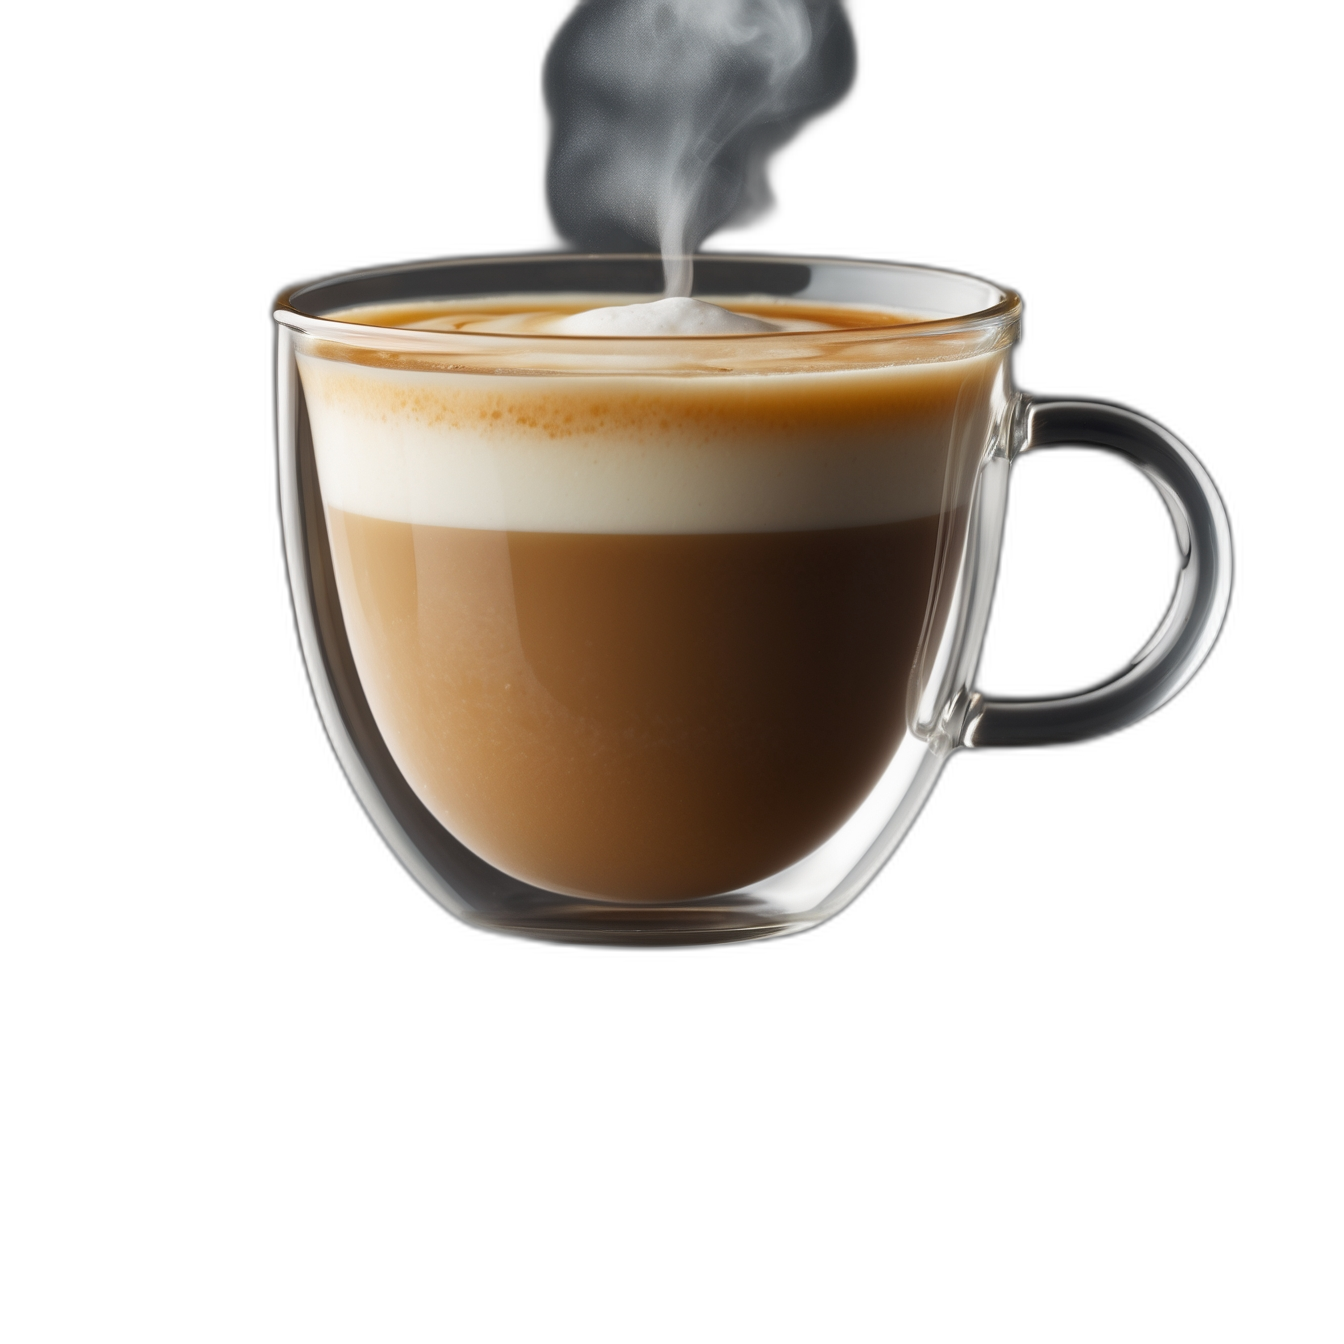
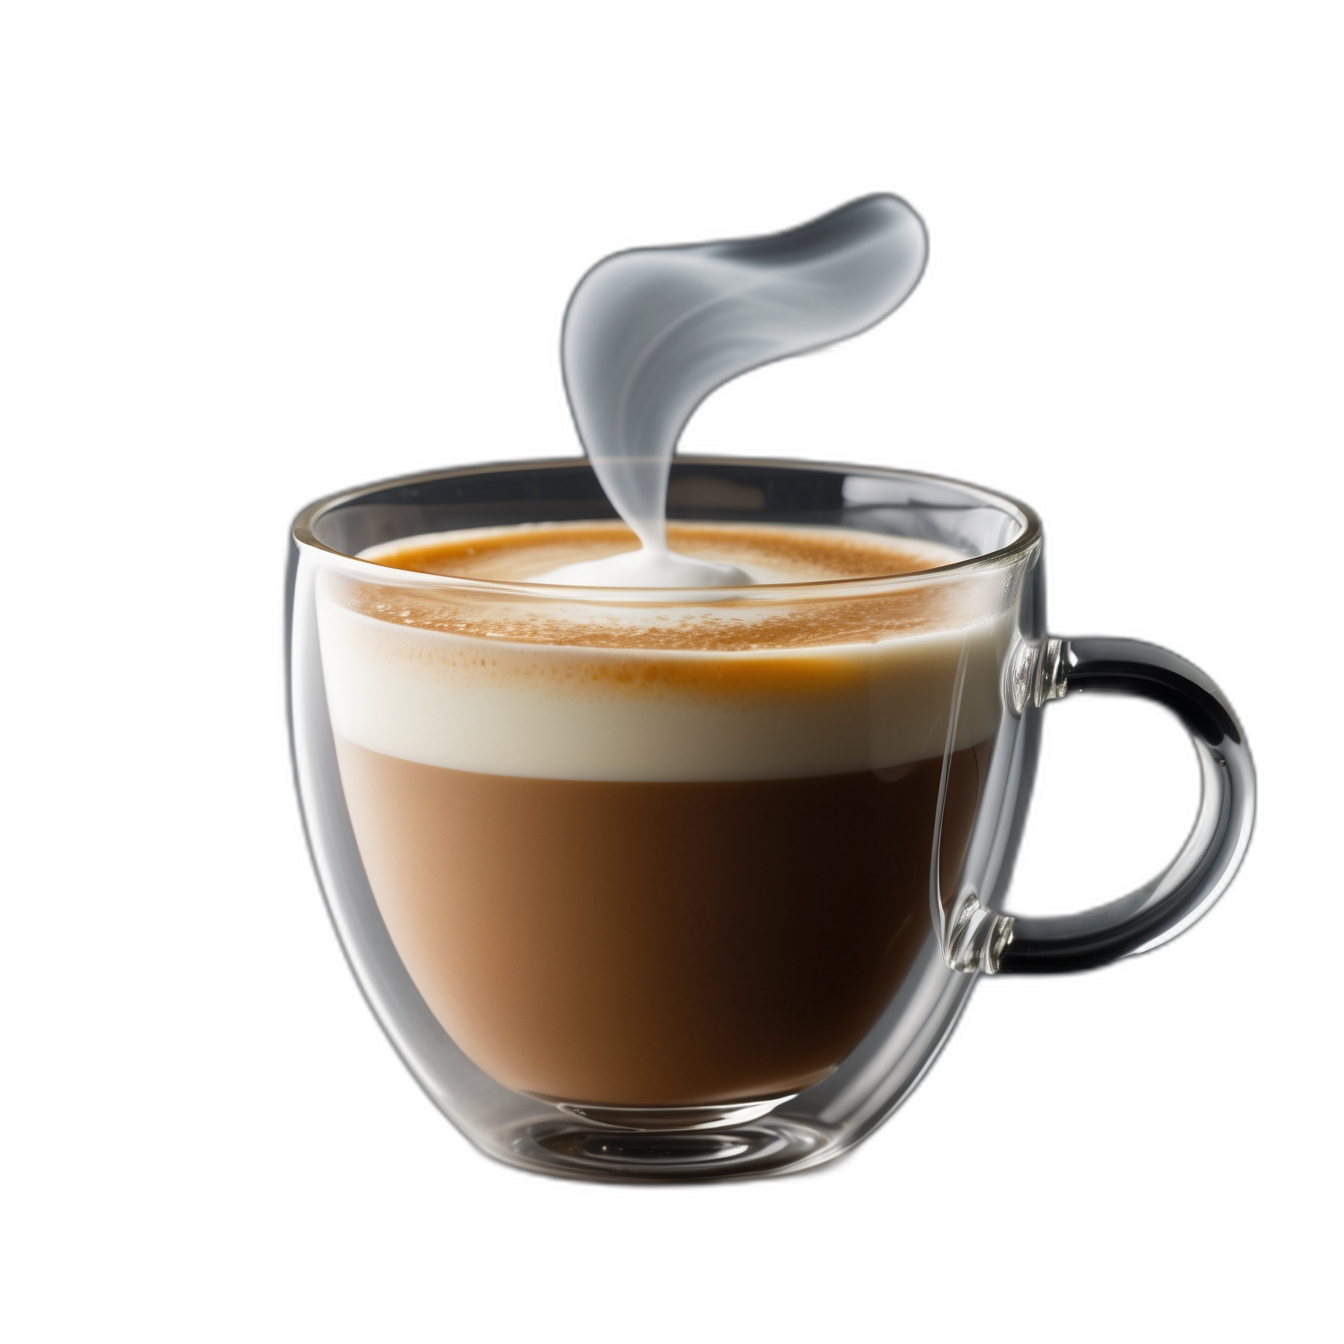
menu updates

diff --git a/index.html b/index.html
@@ -136,6 +136,9 @@ body{background:var(--bg);color:var(--cream);font-family:'Montserrat',sans-serif
 .card-img-bar{display:block;margin:12px auto 0;max-width:100%;height:auto;max-height:90px;pointer-events:none;filter:drop-shadow(0px 4px 14px rgba(237,133,48,0.15))}
 .coffee-img-wrap{width:100%;height:160px;display:flex;align-items:center;justify-content:center;overflow:hidden}
 .coffee-img-wrap img{height:100%;max-width:100%;object-fit:contain;display:block}
+.strawberry-img-wrap{align-items:flex-end;overflow:visible}
+.strawberry-img-wrap img{width:120%;height:112%;max-width:none;object-fit:contain;object-position:bottom}
+.card:has(.strawberry-img-wrap){overflow:visible}
 .card-img-tea{flex-shrink:0;object-fit:contain;object-position:center bottom;margin-left:14px;margin-top:0;pointer-events:none;height:190px;width:auto;max-width:190px;min-width:100px;overflow:visible;filter:drop-shadow(0px 6px 18px rgba(237,133,48,0.15))}
 img[src*="kelloggs-all-bran-chocolate"]{transform:scaleX(1.22);transform-origin:center center}
 img[src*="kelloggs-coco-pops-bar"]{transform:scale(1.08);transform-origin:center center}
@@ -645,11 +648,18 @@ img[src*="Red-bull-sugar-free"]{transform:scaleX(1.19);transform-origin:center c
       <div class="card-tags"><span class="tag" data-en="Cold" data-ru="Холодный">Cold</span></div>
     </div></div></div>
     <div class="card"><div class="card-inner"><div class="card-accent"></div><div class="card-body">
-      <div class="coffee-img-wrap"><img src="Images/Coffee/Iced-Strawberry-Latte.png" alt="Iced Strawberry Latte" onerror="this.style.display='none'"></div>
+      <div class="coffee-img-wrap strawberry-img-wrap"><img src="Images/Coffee/Iced-Strawberry-Latte.png" alt="Iced Strawberry Latte" onerror="this.style.display='none'"></div>
       <div class="card-origin" data-en="Espresso · Ice · Strawberry · Milk" data-ru="Эспрессо · Лёд · Клубника · Молоко">Espresso · Ice · Strawberry · Milk</div>
       <div class="card-name" data-en="Iced Strawberry Latte" data-ru="Айс-латте Клубника">Iced Strawberry Latte</div>
       <div class="card-desc" data-en="A playful elevation of our iced latte. Real strawberry infused through cold milk with espresso on top. Visually striking and delicious." data-ru="Игривая версия нашего айс-латте. Клубника в холодном молоке с эспрессо сверху.">A playful elevation of our iced latte. Real strawberry infused through cold milk with espresso on top. Visually striking and delicious.</div>
       <div class="card-tags"><span class="tag" data-en="Cold" data-ru="Холодный">Cold</span><span class="tag" data-en="Strawberry" data-ru="Клубника">Strawberry</span></div>
+    </div></div></div>
+    <div class="card"><div class="card-inner"><div class="card-accent"></div><div class="card-body">
+      <div class="coffee-img-wrap"><img src="Images/Coffee/bumble.png" alt="Bumble" onerror="this.style.display='none'"></div>
+      <div class="card-origin" data-en="Espresso · Orange Juice" data-ru="Эспрессо · Апельсиновый сок">Espresso · Orange Juice</div>
+      <div class="card-name" data-en="Bumble" data-ru="Bumble">Bumble</div>
+      <div class="card-desc" data-en="Freshly squeezed orange juice topped with a shot of espresso. Bright, bittersweet, and unexpectedly refreshing — citrus meets crema in one glass." data-ru="Свежевыжатый апельсиновый сок с шотом эспрессо сверху. Яркий, горько-сладкий и неожиданно освежающий — цитрус встречается с кремой в одном стакане.">Freshly squeezed orange juice topped with a shot of espresso. Bright, bittersweet, and unexpectedly refreshing — citrus meets crema in one glass.</div>
+      <div class="card-tags"><span class="tag" data-en="Cold" data-ru="Холодный">Cold</span><span class="tag" data-en="Citrus" data-ru="Цитрус">Citrus</span></div>
     </div></div></div>
   </div>
   <div class="footer"><div class="f-dots"><div class="f-dot"></div><div class="f-dot"></div><div class="f-dot"></div></div><div class="f-logo">Urban Court</div><div class="f-txt" data-en="Open daily · 07:00 – 22:00" data-ru="Ежедневно · 07:00 – 22:00">Open daily · 07:00 – 22:00</div></div>
